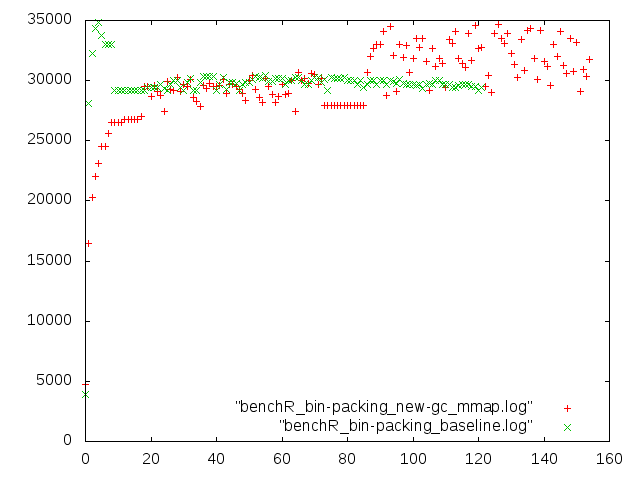
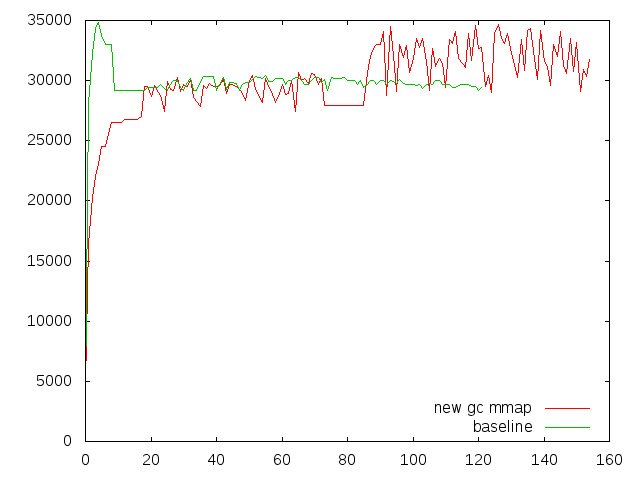
integrate memusg plot

diff --git a/report.md b/report.md
@@ -42,3 +42,13 @@ Number of GCs (minor & full)
 ### Mmap version
 
 ![](https://raw.githubusercontent.com/o-/repoRt/master/data/experiments/gc_cycles-mmap.png)
+
+# Overall Heapsize
+
+## Binpacking
+
+![](https://raw.githubusercontent.com/o-/repoRt/master/data/mumusg/benchR_bin-packing.png)
+
+## Binary trees
+
+![](https://raw.githubusercontent.com/o-/repoRt/master/data/mumusg/shootout_binary-trees.png)
